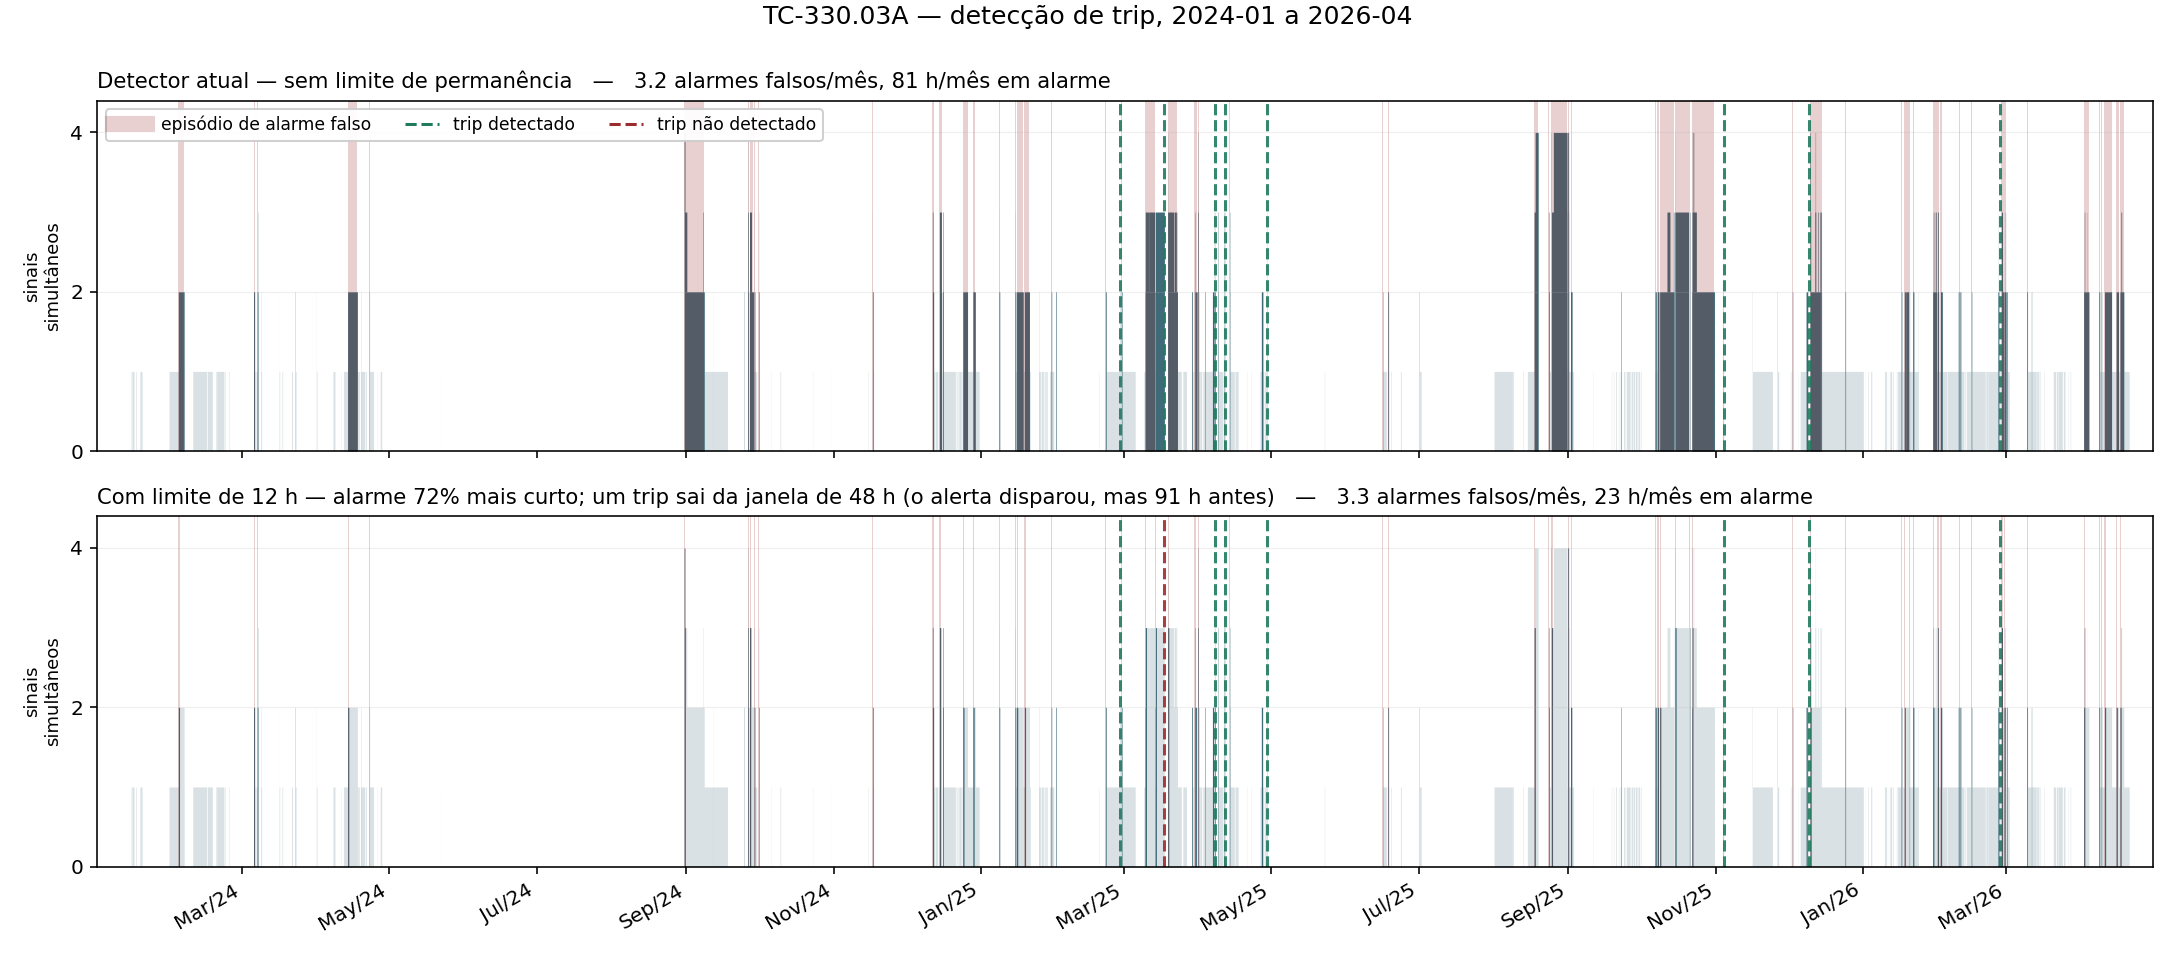
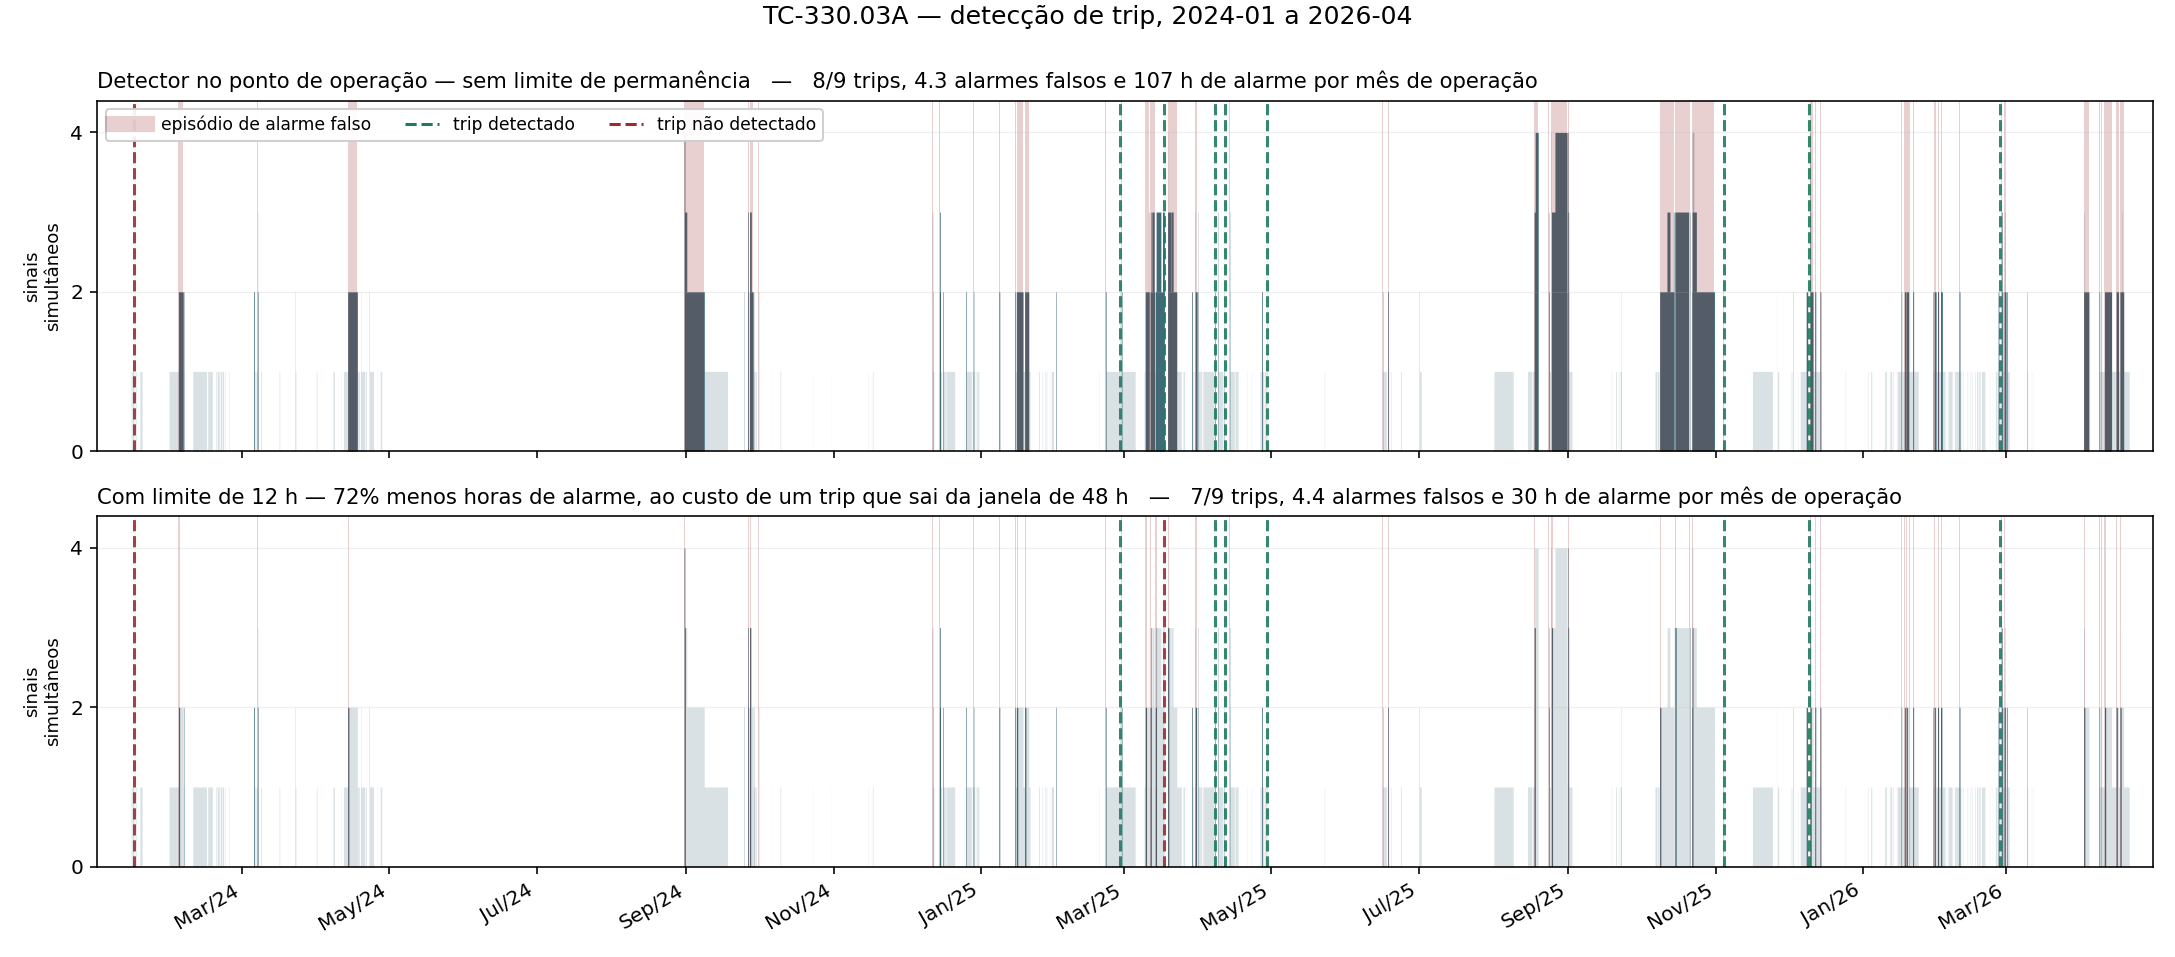
feat: cobertura cruzada entre os dois detectores + figuras no ponto de operacao
QUADRANTE QUE FALTAVA. A matriz de cobertura entre o detector de 4 sinais e o
candidato EXP10c tinha tres celulas preenchidas e uma vazia. quadrante.py roda
o NOSSO detector contra os 32 alarmes de temperatura genuinos do EXP7
(TC382_03_A HI/HIHI + T5_AVG_A HI, OOS 2025-07 a 2026-04), com a REGUA DELE
(+-24 h, detalhamento preditivo/reativo/sem deteccao). Os 8 UNDER ficam fora
pelo motivo ja verificado na fonte: disparam com RUNNING_A em Comm Fail /
desligado / NaN.

                        | 32 alarmes de temp | paradas reais
  EXP10c (Diego)        | 100%, 29 preditivos| 2/2
  4 sinais (nosso)      | 65,6%, 16 predit.  | 8/9
                        | 11 sem deteccao    |

Custo na unidade dele: 19,99% dos pontos normais contra 0,35% do EXP10c --
~57x mais caro no alvo dele. Os 11 alarmes nao detectados estao todos em
fev-mar/2026. A mascara nao muda nada (nossa e dele dao numeros identicos).

Conclusao: a sobreposicao e de MAO UNICA. O detector de temperatura cobre
incidentalmente o nosso alvo; o nosso cobre o dele mal e caro. Os dois sao
necessarios, cada um no seu subsistema.

FIGURAS. fig_relatorio.py rodava com k_base=1.3 (ponto de operacao antigo) e
contava FP por mes de CALENDARIO, produzindo 3,2 FP/mes e 81 h/mes -- numeros
que nao batem com os do relatorio, que usa a regua do projeto (mes de
OPERACAO, avalia.py). Tambem marcava so os eventos de 2025+, nao os 9.
Corrigido nos tres pontos; a figura agora mostra 8/9 trips, 4,3 FP/mes e
[…]

diff --git a/scripts/pdm_fisico/quadrante.py b/scripts/pdm_fisico/quadrante.py
@@ -1,0 +1,150 @@
+#!/usr/bin/env python3
+"""O quadrante que faltava: o NOSSO detector contra os alarmes de temperatura DELE.
+
+A matriz de cobertura entre os dois detectores tinha tres celulas preenchidas e uma
+vazia:
+
+                          | alvo: alarme de temperatura | alvo: parada real
+  detector EXP10c (Diego) |   92,5% (100% dos 32 reais) |   2/2 (secao 18, denominador
+                          |                             |   corrigido em cruza_diego_trip)
+  detector de 4 sinais    |          ???                |   8/9
+                          |     <- esta celula
+
+Sem ela nao da para dizer se a sobreposicao entre os dois e mutua ou de mao unica, nem
+o que fica descoberto entre os dois.
+
+ALVO. Os 32 alarmes fisicamente genuinos do EXP7 (secao 12.3): TC382_03_A HI (17) +
+HIHI (14) + T5_AVG_A HI (1), no OOS dele (2025-07-01 a 2026-04-30). Os 8 UNDER ficam
+de fora pelo motivo que ele proprio documentou e que verificamos na fonte: disparam com
+valor entre -18 e -22 degC, com RUNNING_A em Comm Fail / desligado / NaN. Nao existe
+precursor para prever a falha de comunicacao do proprio sensor.
+
+REGUA. A dele, nao a nossa: janela de +-24 h em torno do alarme, e o detalhamento
+preditivo (deteccao estritamente antes) / reativo (so no instante ou depois) / sem
+deteccao. Ele mesmo mostrou na secao 9.5 por que o hit_rate agregado engana sem esse
+detalhamento -- um candidato com FP baixo tinha 13 de 28 deteccoes preditivas, o resto
+reacao tardia.
+
+MASCARA. Reportado nas duas: a dele (maquina operando) e a nossa (operacao quente
+T5>300 + blackout de 6 h pos-partida). A nossa e mais restritiva, entao pode perder
+alarme que ocorre em transiente de partida -- isso precisa aparecer, nao ser escondido.
+
+CUSTO. Convertido para a unidade dele (normal_alert_rate = fracao de pontos normais
+marcados como anomalos) para ser comparavel com os 0,35% do EXP10c.
+
+Nota de escopo: os parametros do nosso detector (k_base=1,7, k_vib=2,2) foram escolhidos
+nos eventos de TREINO, anteriores a 2025-07. O OOS dele comeca exatamente em 2025-07,
+entao esta avaliacao e genuinamente fora da amostra de selecao.
+"""
+from __future__ import annotations
+import sys, pathlib
+import numpy as np, pandas as pd
+
+PDM = "/tmp/claude-1000/-home-thallys-Documents-projeto-petrobras-Analise-exploratoria-dos-dados-analise-cabiunas-cabv2-cabiunas-models/e6d62cc6-1642-437f-9af7-77c9e87ef823/scratchpad/pdm/src"
+sys.path.insert(0, PDM)
+import avalia as A
+from ablacao import canonico, roda, mascara_pontuacao
+from ablacao4 import alerta_2k, BRACO
+from portoes import K_BASE, K_VIB
+from auto_reset import trunca
+
+CACHE = pathlib.Path.home() / ".clearml/cache/storage_manager/datasets"
+ALARMES = CACHE / "ds_d4c284df665e465d8492afd368837c8f/alarmes_selecionados_turbina_a.csv"
+OOS0, OOS1 = pd.Timestamp("2025-07-01", tz="UTC"), pd.Timestamp("2026-04-30", tz="UTC")
+JAN_H = 24.0
+
+
+def alvos_diego():
+    a = pd.read_csv(ALARMES, low_memory=False)
+    a["t"] = pd.to_datetime(a["Data da Ocorrência"], errors="coerce").dt.tz_localize("UTC")
+    a = a[a["t"].notna() & a["Status"].astype(str).str.startswith("ACT")]
+    a = a[(a["t"] >= OOS0) & (a["t"] <= OOS1)]
+    sens = a["Tag Alarme"].isin(["TC382_03_A", "T5_AVG_A"])
+    reais = a[sens & a["Condição do Alarme"].isin(["HI", "HIHI"])].sort_values("t")
+    under = a[sens & (a["Condição do Alarme"] == "UNDER")].sort_values("t")
+    return reais, under
+
+
+def regua_diego(alerta: pd.Series, alvos: pd.DataFrame, mask: pd.Series):
+    """+-24 h, com detalhamento preditivo / reativo / sem deteccao."""
+    pred, reat, nada, leads, atrasos = [], [], [], [], []
+    for _, r in alvos.iterrows():
+        t = r["t"]
+        jan = alerta.loc[t - pd.Timedelta(hours=JAN_H): t + pd.Timedelta(hours=JAN_H)]
+        on = jan[jan.fillna(False)]
+        if not len(on):
+            nada.append(r); continue
+        antes = on[on.index < t]
+        if len(antes):
+            pred.append(r); leads.append((t - antes.index[0]).total_seconds() / 3600)
+        else:
+            reat.append(r); atrasos.append((on.index[0] - t).total_seconds() / 3600)
+    n = len(alvos)
+    return dict(n=n, pred=len(pred), reat=len(reat), nada=len(nada),
+                hit=100 * (len(pred) + len(reat)) / max(n, 1),
+                taxa_pred=100 * len(pred) / max(n, 1),
+                lead_med=float(np.median(leads)) if leads else np.nan,
+                atraso_med=float(np.median(atrasos)) if atrasos else np.nan,
+                sem_det=[r["t"].strftime("%Y-%m-%d %H:%M") for r in nada])
+
+
+def main():
+    df = canonico()
+    falhas = pd.read_csv("falhas.csv", parse_dates=["evento"])["evento"].dt.tz_convert("UTC")
+    idx = df.index
+    mask_nosso = mascara_pontuacao(df)
+    mask_dele = df["in_operation"].astype(bool)          # so "operando", como no EXP7
+
+    reais, under = alvos_diego()
+    print(f"alvos no OOS dele: {len(reais)} HI/HIHI genuinos + {len(under)} UNDER descartados")
+    print(f"  por tag: {reais['Tag Alarme'].value_counts().to_dict()}")
+    print(f"  por condicao: {reais['Condição do Alarme'].value_counts().to_dict()}")
+    dentro = ((reais["t"] >= idx[0]) & (reais["t"] <= idx[-1]))
+    print(f"  dentro da cobertura do nosso cache: {int(dentro.sum())}/{len(reais)}")
+
+    print("\nmontando 'out' ...", flush=True)
+    out = roda(BRACO, df, falhas)
+    base = alerta_2k(out, mask_nosso, K_BASE, K_VIB)
+    teto = trunca(base, 12)
+    oos = (idx >= OOS0) & (idx <= OOS1)
+
+    print("\n" + "=" * 78)
+    print("O NOSSO DETECTOR NOS 32 ALARMES DE TEMPERATURA DELE (regua do EXP7, +-24 h)")
+    print("=" * 78)
+    print(f"{'configuracao':32s} {'hit':>7} {'pred':>6} {'reat':>6} {'nada':>6} "
+          f"{'taxa pred':>10} {'lead med':>9}")
+    linhas = []
+    for nome, al in [("4 sinais", base), ("4 sinais + teto 12h", teto)]:
+        for rot, mk in [("mascara nossa", mask_nosso), ("mascara dele (operando)", mask_dele)]:
+            a2 = al if rot.startswith("mascara nossa") else (al.fillna(False) & mk)
+            x = regua_diego(a2, reais, mk)
+            print(f"{nome + ' | ' + rot:32s} {x['hit']:6.1f}% {x['pred']:6d} {x['reat']:6d} "
+                  f"{x['nada']:6d} {x['taxa_pred']:9.1f}% {x['lead_med']:8.1f}h")
+            linhas.append(dict(detector=nome, mascara=rot, **{k: v for k, v in x.items()
+                                                              if k != "sem_det"}))
+    print("\n  referencia EXP10c (Diego), mesmos 32 alarmes:")
+    print(f"{'EXP10c':32s} {100.0:6.1f}% {29:6d} {3:6d} {0:6d} {90.6:9.1f}% {14.7:8.1f}h")
+
+    # custo na unidade dele
+    print("\n=== custo na unidade do EXP7 (normal_alert_rate) ===")
+    todos = pd.concat([reais["t"], under["t"]])
+    longe = pd.Series(True, index=idx)
+    for t in todos:
+        longe &= ~((idx >= t - pd.Timedelta(hours=JAN_H)) & (idx <= t + pd.Timedelta(hours=JAN_H)))
+    for nome, al in [("4 sinais", base), ("4 sinais + teto 12h", teto)]:
+        for rot, mk in [("mascara nossa", mask_nosso), ("mascara dele", mask_dele)]:
+            sel = mk & oos & longe
+            a2 = al.fillna(False) & mk
+            print(f"  {nome + ' | ' + rot:34s} {100 * (a2 & sel).sum() / max(sel.sum(), 1):6.2f}% "
+                  f"dos pontos normais  ({(a2 & sel).sum() * 2 / 60:7.1f} h em "
+                  f"{sel.sum() * 2 / 60:7.0f} h)")
+    print("  EXP10c (Diego)                       0.35% dos pontos normais")
+
+    x = regua_diego(base, reais, mask_nosso)
+    print(f"\n=== os {x['nada']} alarmes que o nosso detector nao ve ===")
+    for s in x["sem_det"]:
+        print(f"  {s}")
+    pd.DataFrame(linhas).to_csv("quadrante.csv", index=False)
+
+
+main()

diff --git a/scripts/pdm_fisico/fig_relatorio.py b/scripts/pdm_fisico/fig_relatorio.py
@@ -22,16 +22,20 @@ from ablacao import canonico, roda, mascara_pontuacao
 from ablacao4 import BRACO
 from auto_reset import trunca
 
-K_BASE, K_VIB, LIM = 1.3, 2.2, 12
+# Ponto de operacao vigente (ablacao4): k_base escolhido no treino, k_vib desacoplado.
+# Ate 2026-08-22 este script rodava com k_base=1.3 e contava FP por mes de CALENDARIO,
+# o que produzia numeros (3,2 FP/mes, 81 h/mes) que nao batem com os do relatorio --
+# a regua do projeto (avalia.py) conta por mes de OPERACAO. Corrigido nos dois pontos.
+K_BASE, K_VIB, LIM = 1.7, 2.2, 12
 AZUL, LARANJA, VERDE, VERM = "#2E5E6E", "#C4703A", "#1F7A5E", "#9E2B2B"
 
 
 def main():
     df = canonico()
     ftodas = pd.read_csv("falhas.csv", parse_dates=["evento"])["evento"].dt.tz_convert("UTC")
-    falhas = ftodas[ftodas >= "2025-01-01"].reset_index(drop=True)
+    falhas = ftodas.reset_index(drop=True)          # os 9 eventos, nao so os de 2025+
     mask = mascara_pontuacao(df); idx = mask.index
-    cal = (idx[-1] - idx[0]).total_seconds() / 3600 / 730
+    meses_op = mask.sum() * 2 / 60 / 730.0          # mes de OPERACAO, como em avalia.py
     jan48 = [(t - pd.Timedelta(hours=48), t) for t in ftodas]
 
     out = roda(BRACO, df, ftodas)
@@ -54,13 +58,18 @@ def main():
 
     # ---------------------------------------------------------- figura 1
     fig, axes = plt.subplots(2, 1, figsize=(15, 6.6), sharex=True)
+    h_sem = sum((b - a).total_seconds()/3600 + 2/60 for a, b in fps(al_sem))
+    h_com = sum((b - a).total_seconds()/3600 + 2/60 for a, b in fps(al_com))
+    corte = 100 * (1 - h_com / max(h_sem, 1e-9))
     for ax, al, titulo in [
-        (axes[0], al_sem, "Detector atual — sem limite de permanência"),
-        (axes[1], al_com, f"Com limite de {LIM} h — alarme 72% mais curto; um trip sai da janela de 48 h "
-         f"(o alerta disparou, mas 91 h antes)"),
+        (axes[0], al_sem, "Detector no ponto de operação — sem limite de permanência"),
+        (axes[1], al_com, f"Com limite de {LIM} h — {corte:.0f}% menos horas de alarme, "
+                          f"ao custo de um trip que sai da janela de 48 h"),
     ]:
         fp = fps(al)
         h = sum((b - a).total_seconds()/3600 + 2/60 for a, b in fp)
+        det = sum(1 for ev in falhas
+                  if al[(al.index >= ev - pd.Timedelta(hours=48)) & (al.index < ev)].any())
         ax.fill_between(n.index, 0, n.where(al, 0).to_numpy(), step="mid",
                         color=AZUL, lw=0, alpha=.9)
         ax.fill_between(n.index, 0, n.to_numpy(), step="mid", color=AZUL, lw=0, alpha=.18)
@@ -71,8 +80,9 @@ def main():
             ax.axvline(ev, color=VERDE if pego else VERM, lw=1.5, ls="--", alpha=.9)
         ax.set_ylim(0, 4.4); ax.set_yticks([0, 2, 4])
         ax.set_ylabel("sinais\nsimultâneos", fontsize=9)
-        ax.set_title(f"{titulo}   —   {len(fp)/cal:.1f} alarmes falsos/mês, "
-                     f"{h/cal:.0f} h/mês em alarme", fontsize=10.5, loc="left")
+        ax.set_title(f"{titulo}   —   {det}/{len(falhas)} trips, "
+                     f"{len(fp)/meses_op:.1f} alarmes falsos e {h/meses_op:.0f} h de alarme "
+                     f"por mês de operação", fontsize=10.5, loc="left")
         ax.grid(axis="y", alpha=.2, lw=.6)
 
     axes[0].plot([], [], color=VERM, alpha=.22, lw=8, label="episódio de alarme falso")
